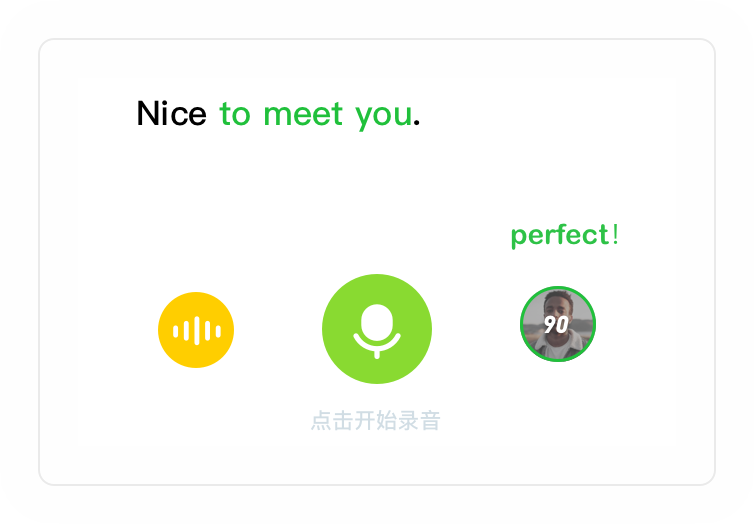
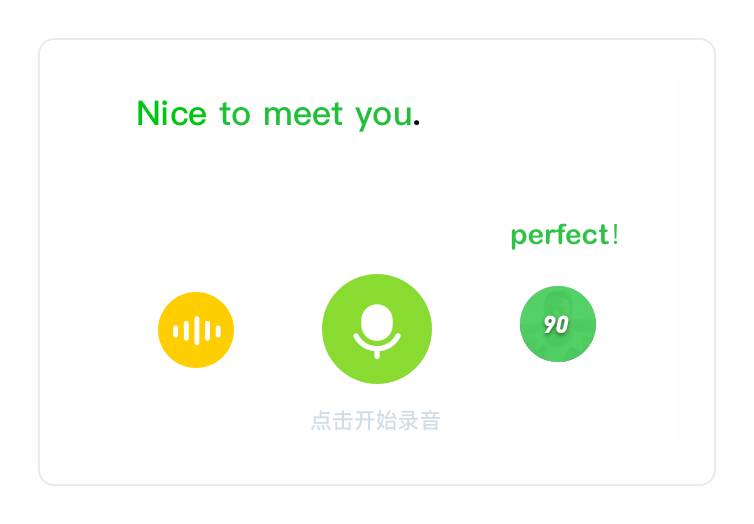
novip和引导

Changed region(s): [[0.6711, 0.5496, 0.7931, 0.7023], [0.183, 0.1832, 0.2745, 0.2443]]

diff --git a/src/components/common/yuyin/yuyinGuideBox.vue b/src/components/common/yuyin/yuyinGuideBox.vue
@@ -1,21 +1,14 @@
 <template>
-  <div class="guide-overlay" v-show="isShow" @click="close">
-    <div class="guide-content"
-      :style="{height: height + 'px', width: width + 'px', left: left + 'px', top: top + 'px'}"
-      v-html="content">
+  <div class="guide-overlay" v-show="isShow" @click="isShow = false">
+    <div class="guide2-content" :style="{left: left + 'px', top: top - 62 + 'px'}">
+      <div class="cursor-desc" >{{ content }}</div>
+      <div class="cursor" ></div>
     </div>
-    <div class="guide-helper" :style="{left: left + 'px', top: top + height + 20 + 'px'}">
-      <p>点击「任意单词」可查询发音解析</p>
-      <div class="smile"></div>
-    </div>
-    <div class="cursor" :style="{left: left + 20 + 'px', top: top - 70 + 'px'}"></div>
-    <div class="cursor-desc" :style="{left: left + 72 + 'px', top: top - 85 + 'px'}">智能评分颜色说明</div>
   </div>
 </template>
 
 <script>
-import $ from 'jquery'
-import bus from '../../../../bus'
+import bus from '../../../bus'
 export default {
   data () {
     return {
@@ -28,22 +21,18 @@ export default {
     }
   },
   created () {
-    bus.$on('kidGuideShow', (ele) => {
-      this.left = ele.offset().left - 10
+    bus.$on('ShowGuideBox', (params) => {
+      console.log(params)
+      let ele = params.ele
+      localStorage.setItem('isShowProGuide', '1')
+      // this.left = ele.offset().left - 10
+      this.left = ele.offset().left - 270
       this.top = ele.offset().top - 5
       this.width = ele.width() + 20
       this.height = ele.height() + 10
-      this.content = ele.html()
+      this.content = params.content
       this.isShow = true
-      console.log(ele)
-      console.log(ele.html())
     })
-  },
-  methods: {
-    close () {
-      this.isShow = false
-      bus.$emit('kidGuideShow2', {ele: $('.swiper-slide-active .ise-area .user'), content: '智能小e帮你分析单词评分'})
-    }
   }
 }
 </script>
@@ -74,52 +63,29 @@ export default {
   -o-transition: all .3s ease-out;
   transition: all .3s ease-out;
 }
-
-.guide-content {
+.guide2-content {
   position: absolute;
-  background: #fff;
-  border-radius: 8px;
-  font-size: 20px;
-  font-weight: 600;
-  padding-top: 5px;
-  padding-left: 10px;
-  color: #3C5B6F;
+  height: 60px;
+  min-width: 312px;
+  display: flex;
+  justify-content: space-around;
 }
-
-.guide-helper {
-  position: absolute;
-  width: 343px;
-  background: #fff;
-  border-radius: 8px;
-  padding: 14px;
-  p {
-    font-size: 16px;
-    font-weight: 400;
-    color: #000;
-  }
-  .smile {
-    margin-top: 14px;
-    width: 315px;
-    height: 90px;
-    background-image: url('../../../../../static/images/kid/icon-smile.png');
-    background-repeat: no-repeat;
-    background-size: cover;
-  }
-}
-
 .cursor {
-  position: absolute;
+  // position: absolute;
+  // right: -55px;
   width: 45px;
   height: 60px;
-  background-image: url('../../../../../static/images/kid/hand-left-down.png');
+  background-image: url('../../../../static/images/kid/hand-right-down.png');
   background-repeat: no-repeat;
   background-size: cover;
 }
 
 .cursor-desc {
-  position: absolute;
+  // position: absolute;
   font-size: 22px;
   font-weight: 500;
   color: #fff;
+  margin-top: -12px;
+  margin-right: 12px;
 }
 </style>

diff --git a/src/components/learn/kidCourse/common/noVipGuideBox.vue b/src/components/learn/kidCourse/common/noVipGuideBox.vue
@@ -13,19 +13,24 @@
           <div class="swiper-slide">
             <div class="item">
               <p>1. 智能评分颜色说明</p>
-              <i class="pic-novip-1"></i>
+              <i class="pic-novip-1" v-if="xfSpeechType === 'ise'"></i>
+              <i class="pic-novip-iat-1" v-else></i>
             </div>
           </div>
           <div class="swiper-slide">
             <div class="item">
               <p>2. 专属智能评分</p>
-              <i class="pic-novip-2"></i>
+              <i class="pic-novip-2" ></i>
             </div>
           </div>
           <div class="swiper-slide">
-            <div class="item">
-              <p>3.专属评分详情</p>
+            <div class="item" v-if="xfSpeechType === 'ise'">
+              <p>3.智能小e单词评分分析</p>
               <i class="pic-novip-3"></i>
+            </div>
+            <div class="item" v-else>
+              <p>3.智能小e句子跟读识别</p>
+              <i class="pic-novip-iat-3"></i>
             </div>
           </div>
         </div>
@@ -41,7 +46,7 @@
 import Bus from '../../../../bus'
 import Swiper from 'swiper'
 import 'swiper/dist/css/swiper.min.css'
-import { mapActions } from 'vuex'
+import { mapActions, mapState } from 'vuex'
 
 export default {
   data () {
@@ -61,6 +66,9 @@ export default {
   mounted () {
   },
   computed: {
+    ...mapState({
+      xfSpeechType: state => state.xfSpeechType
+    })
   },
   methods: {
     ...mapActions({
@@ -210,12 +218,22 @@ export default {
         width: 430px;
         background-image: url('../../../../../static/images/kid/pic-novip-1.png');
       }
+      &.pic-novip-iat-1 {
+        width: 430px;
+        background-image: url('../../../../../static/images/kid/pic-novip-iat-1.png');
+      }
       &.pic-novip-2 {
         background-image: url('../../../../../static/images/kid/pic-novip-2.png');
       }
       &.pic-novip-3 {
+        width: 408px;
         height: 298px;
         background-image: url('../../../../../static/images/kid/pic-novip-3.png');
+      }
+      &.pic-novip-iat-3 {
+        width: 408px;
+        height: 290px;
+        background-image: url('../../../../../static/images/kid/pic-novip-iat-3.png');
       }
     }
   }

diff --git a/src/components/study/common/record.vue b/src/components/study/common/record.vue
@@ -32,12 +32,14 @@
         <p class="score-desc" v-text="scoreDesc" v-show="translateX > 0"></p>
       </div>
     </div>
+    <audio id="showScore" src="../../../../static/sounds/show_score.mp3"></audio>
   </div>
 </template>
 
 <script>
 import { mapMutations, mapActions, mapState } from 'vuex'
 import _ from 'lodash'
+import $ from 'jquery'
 import bus from '../../../bus'
 import Recorder from '../../../plugins/recorder'
 import SoundManager from '../../../plugins/soundManager'
@@ -313,7 +315,15 @@ export default {
           this.scoreDesc = 'try again!'
           break
       }
+      $('#showScore')[0].play()
       this.isShowScoring = false
+      let ShowProGuide = localStorage.getItem('isShowProGuide')
+      if (!ShowProGuide) {
+        setTimeout(() => {
+          bus.$emit('ShowGuideBox', {ele: $('.record-container .user .photo'), content: '智能小e帮你识别句子跟读'})
+          localStorage.setItem('isShowProGuide', '1')
+        }, 100)
+      }
     },
     goWordListBox () {
       this.showProCircle = localStorage.getItem('showProCircle')
@@ -441,7 +451,7 @@ export default {
       top: 0;
       text-align: center;
       span {
-        line-height: 48px;
+        line-height: 50px;
         font-size: 18px;
         font-weight: bold;
         color: #fff;
@@ -458,19 +468,22 @@ export default {
       }
     }
     .perfect {
-      border: 2px solid #20C03B;
+      // border: 2px solid #20C03B;
+      background: rgba(74, 214, 96, .9);
       .score-desc {
         color: #5CF676;
       }
     }
     .good {
-      border: 2px solid #515151;
+      // border: 2px solid #515151;
+      background: rgba(119, 119, 134,.9);
       .score-desc {
         color: #070707;
       }
     }
     .try {
-      border: 2px solid #FF685F;
+      // border: 2px solid #FF685F;
+      background: rgba(255, 91, 91, .9);
       .score-desc {
         color: #FF685F;
       }

diff --git a/src/components/common/yuyin/noVipGuideBox.vue b/src/components/common/yuyin/noVipGuideBox.vue
@@ -25,7 +25,7 @@
             </div>
             <div class="swiper-slide">
               <div class="item">
-                <p>3.专属评分详情</p>
+                <p>3.智能小e句子跟读识别</p>
                 <i class="pic-novip-3"></i>
               </div>
             </div>
@@ -209,14 +209,17 @@ export default {
       background-size: cover;
       &.pic-novip-1 {
         width: 430px;
-        background-image: url('../../../../static/images/kid/pic-novip-1.png');
+        background-image: url('../../../../static/images/kid/pic-novip-iat-1.png');
       }
       &.pic-novip-2 {
-        background-image: url('../../../../static/images/kid/pic-novip-2.png');
+        width: 370px;
+        height: 244px;
+        background-image: url('../../../../static/images/kid/pic-novip-pro-2.png');
       }
       &.pic-novip-3 {
-        height: 298px;
-        background-image: url('../../../../static/images/kid/pic-novip-3.png');
+        width: 408px;
+        height: 290px;
+        background-image: url('../../../../static/images/kid/pic-novip-iat-3.png');
       }
     }
   }

diff --git a/src/components/study/study.vue b/src/components/study/study.vue
@@ -19,6 +19,7 @@
     <evaluating-iat-box />
     <noVip-guide-box />
     <prompt-box />
+    <yuyin-guide-box />
   </div>
 </template>
 
@@ -49,6 +50,7 @@ import SentenceBox from '../common/yuyin/sentenceBox'
 import EvaluatingIatBox from '../common/yuyin/evaluatingIatBox'
 import NoVipGuideBox from '../common/yuyin/noVipGuideBox'
 import PromptBox from '../common/yuyin/promptBox'
+import YuyinGuideBox from '../common/yuyin/yuyinGuideBox'
 
 // 结束标志位
 let END = -1
@@ -96,7 +98,8 @@ export default {
     SentenceBox,
     EvaluatingIatBox,
     NoVipGuideBox,
-    PromptBox
+    PromptBox,
+    YuyinGuideBox
   },
   created () {
     this.$on('nextSlide', () => {

diff --git a/src/components/learn/kidCourse/common/iseArea.vue b/src/components/learn/kidCourse/common/iseArea.vue
@@ -389,7 +389,7 @@ export default {
     top: 0;
     text-align: center;
     span {
-      line-height: 48px;
+      line-height: 50px;
       font-size: 18px;
       font-weight: bold;
       color: #fff;
@@ -398,13 +398,16 @@ export default {
     }
   }
   .perfect {
-    border: 2px solid #20C03B;
+    // border: 2px solid #20C03B;
+    background: rgba(74, 214, 96, .9);
   }
   .good {
-    border: 2px solid #515151;
+    // border: 2px solid #515151;
+    background: rgba(119, 119, 134,.9);
   }
   .try {
-    border: 2px solid #FF685F;
+    // border: 2px solid #FF685F;
+    background: rgba(255, 91, 91, .9);
   }
   .icon-vip-tip {
     position: absolute;

diff --git a/static/less/study.less b/static/less/study.less
@@ -26,6 +26,7 @@
   .swiper-container {
     width: 100%;
     height: 100%;
+    max-width: 1540px;
   }
 
   .swiper-wrapper {
@@ -540,7 +541,7 @@
       }
       .trumpet {
         // position: absolute!important;
-        margin-top: 12px!important;
+        // margin-top: 12px!important;
         right: 25px!important;
         cursor: pointer;
         i {

diff --git a/src/components/study/navBar/index.vue b/src/components/study/navBar/index.vue
@@ -71,7 +71,8 @@ export default {
   position: relative;
   height: 100%;
   max-width: 1540px;
-  margin: 0 140px;
+  // margin: 0 140px;
+  margin: 0 auto;
 }
 
 .flex-progress {
